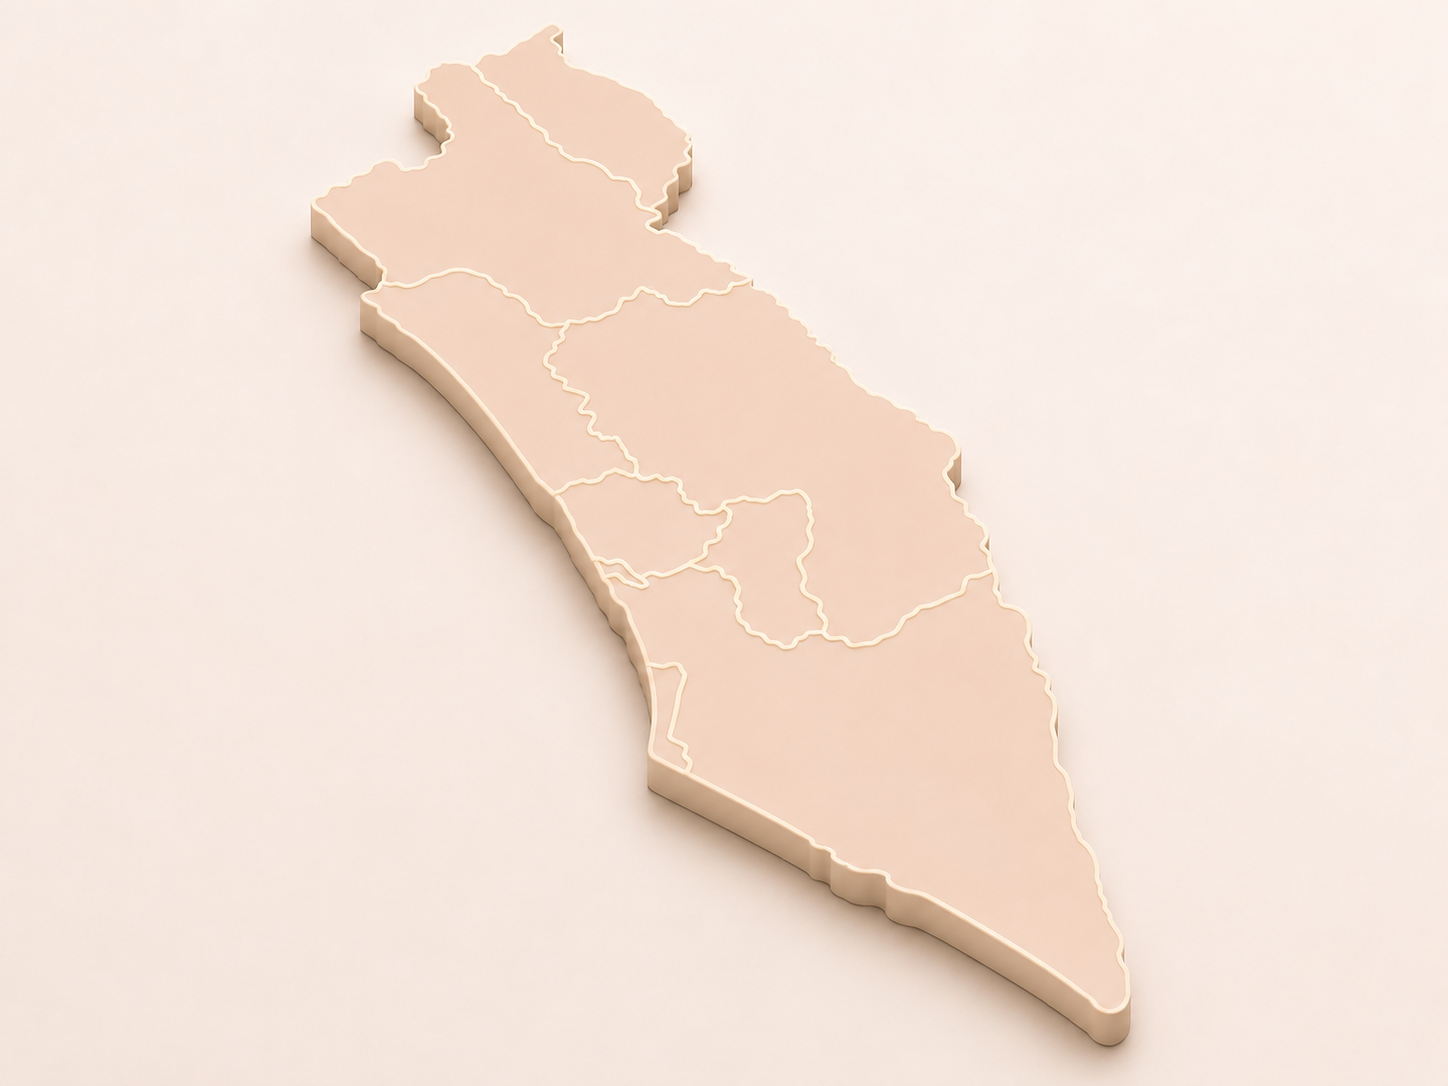
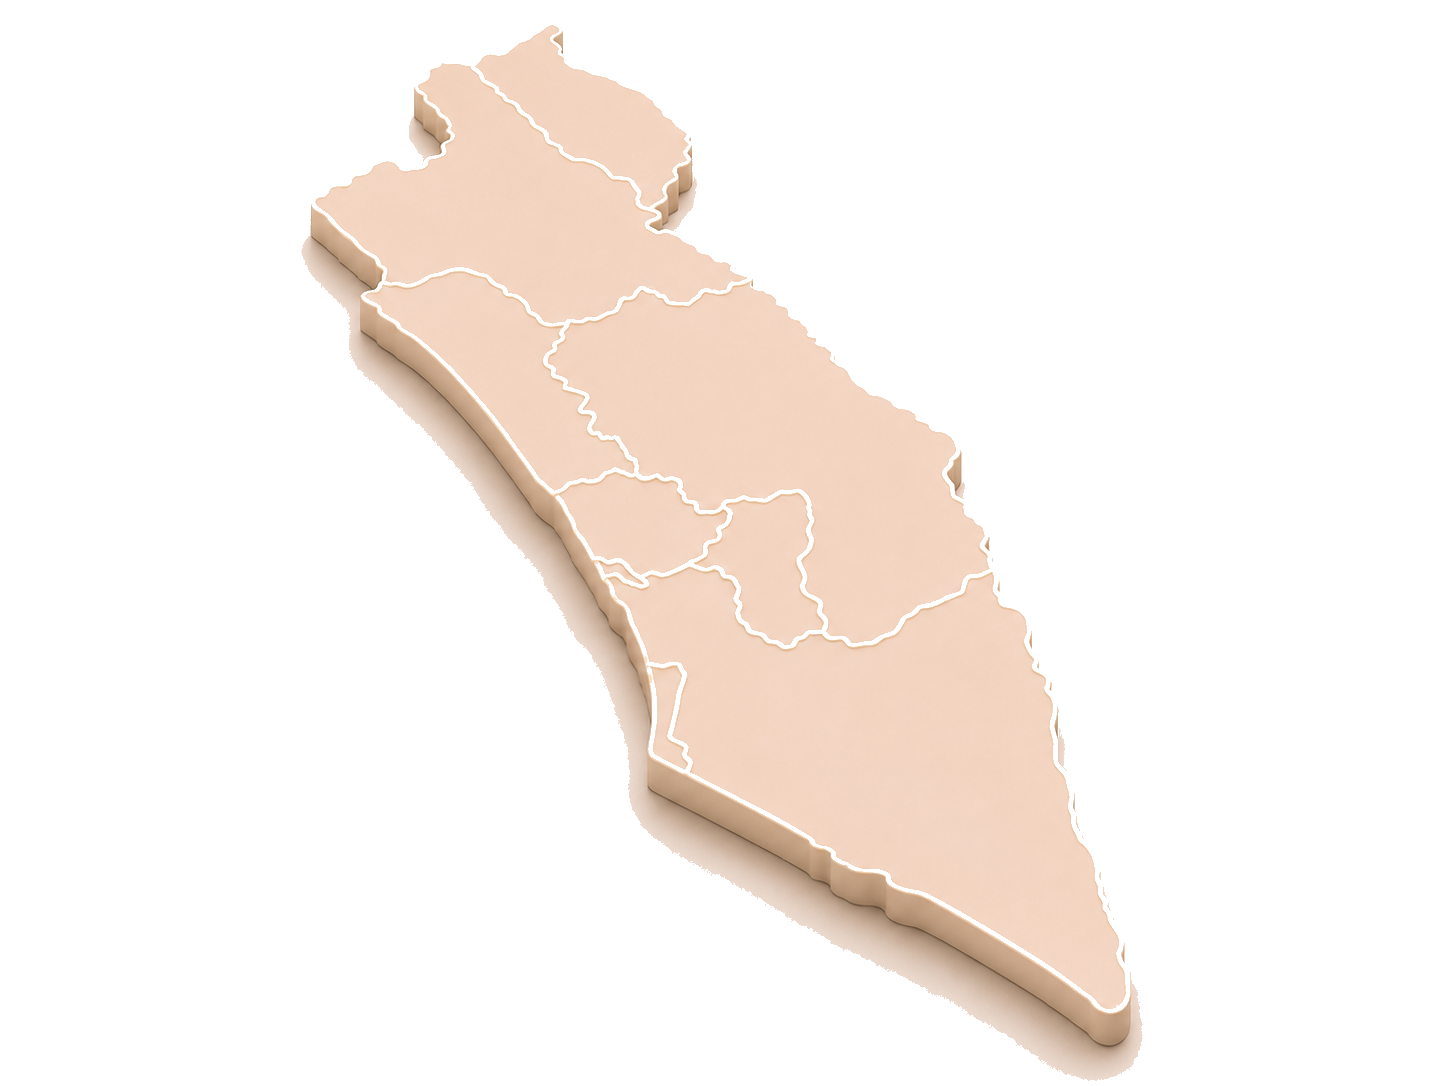
Update landing page

diff --git a/index.html b/index.html
@@ -142,7 +142,7 @@
 <section class="section solution" id="solution">
   <div class="container solution-inner">
     <div class="solution-image">
-      <img src="assets/solution-team.jpg" alt="צוות אסירון ורכב החברה מול מבנה מגורים">
+      <img src="assets/solution-briefing.png" alt="נציג אסירון מדריך עובדים בדירה מנוהלת ומאובזרת">
     </div>
     <div class="solution-content">
       <span class="section-eyebrow">Our Solution</span>
@@ -244,27 +244,32 @@
     <p class="apartments-text">כל דירה עוברת אצלנו תהליך בדיקה קפדני לפני כניסת <span class="nowrap">עובדים – מהתאמת</span> המיקום והסביבה ועד תקינות התשתיות והבטיחות. הדירות מגיעות מרוהטות ומאובזרות במטבח שלם, מוצרי ניקיון וכל מה שנדרש למגורים נוחים מהיום הראשון, ומתוחזקות באופן שוטף כל עוד העובדים גרים בהן.</p>
     <p class="apartments-text">מעבר לדירות למגורים ארוכי טווח, אנחנו מציעים גם מלוניות ודירות מעבר לתקופות <span class="nowrap">קצרות – פתרון</span> דיור גמיש, מהיר וזמין לכל צורך.</p>
 
-    <!-- מקום ל-4 סרטונים. כשיהיו הסרטונים, החליפי כל .video-slot בקוד:
-         <div class="video-slot"><video src="assets/apartment-video-1.mp4" muted loop playsinline controls poster="..."></video></div> -->
-    <div class="video-grid">
-      <div class="video-slot">
-        <svg viewBox="0 0 24 24" fill="none" stroke="currentColor" stroke-width="1.6" stroke-linecap="round" stroke-linejoin="round"><rect x="3" y="5" width="18" height="14" rx="2"/><path d="M10 9l5 3-5 3z"/></svg>
-        <span>מקום לסרטון</span>
-      </div>
-      <div class="video-slot">
-        <svg viewBox="0 0 24 24" fill="none" stroke="currentColor" stroke-width="1.6" stroke-linecap="round" stroke-linejoin="round"><rect x="3" y="5" width="18" height="14" rx="2"/><path d="M10 9l5 3-5 3z"/></svg>
-        <span>מקום לסרטון</span>
-      </div>
-      <div class="video-slot">
-        <svg viewBox="0 0 24 24" fill="none" stroke="currentColor" stroke-width="1.6" stroke-linecap="round" stroke-linejoin="round"><rect x="3" y="5" width="18" height="14" rx="2"/><path d="M10 9l5 3-5 3z"/></svg>
-        <span>מקום לסרטון</span>
-      </div>
-      <div class="video-slot">
-        <svg viewBox="0 0 24 24" fill="none" stroke="currentColor" stroke-width="1.6" stroke-linecap="round" stroke-linejoin="round"><rect x="3" y="5" width="18" height="14" rx="2"/><path d="M10 9l5 3-5 3z"/></svg>
-        <span>מקום לסרטון</span>
-      </div>
+  </div>
+  <div class="marquee">
+    <div class="marquee-track gallery-track">
+      <div class="gallery-tile"><img src="assets/project-1.jpg" alt="פינת אוכל ומטבח בדירת עובדים"></div>
+      <div class="gallery-tile"><img src="assets/project-2.jpg" alt="חדר שינה בדירה מנוהלת"></div>
+      <div class="gallery-tile"><img src="assets/project-3.jpg" alt="חדר בדירת עובדים"></div>
+      <div class="gallery-tile"><img src="assets/project-4.jpg" alt="מטבח מאובזר בדירה"></div>
+      <div class="gallery-tile"><img src="assets/project-5.jpg" alt="עמדת בישול במטבח"></div>
+      <div class="gallery-tile"><img src="assets/project-6.jpg" alt="חדר רחצה בדירה מנוהלת"></div>
+      <div class="gallery-tile"><img src="assets/project-7.jpg" alt="חלל דירה"></div>
+      <div class="gallery-tile"><img src="assets/project-8.jpg" alt="תחזוקה והכנת מטבח"></div>
+      <div class="gallery-tile"><img src="assets/project-9.jpg" alt="מסירת מפתח לדירה"></div>
+      <div class="gallery-tile"><img src="assets/project-10.jpg" alt="דירה מוכנה למגורים"></div>
+      <div class="gallery-tile" aria-hidden="true"><img src="assets/project-1.jpg" alt=""></div>
+      <div class="gallery-tile" aria-hidden="true"><img src="assets/project-2.jpg" alt=""></div>
+      <div class="gallery-tile" aria-hidden="true"><img src="assets/project-3.jpg" alt=""></div>
+      <div class="gallery-tile" aria-hidden="true"><img src="assets/project-4.jpg" alt=""></div>
+      <div class="gallery-tile" aria-hidden="true"><img src="assets/project-5.jpg" alt=""></div>
+      <div class="gallery-tile" aria-hidden="true"><img src="assets/project-6.jpg" alt=""></div>
+      <div class="gallery-tile" aria-hidden="true"><img src="assets/project-7.jpg" alt=""></div>
+      <div class="gallery-tile" aria-hidden="true"><img src="assets/project-8.jpg" alt=""></div>
+      <div class="gallery-tile" aria-hidden="true"><img src="assets/project-9.jpg" alt=""></div>
+      <div class="gallery-tile" aria-hidden="true"><img src="assets/project-10.jpg" alt=""></div>
     </div>
-
+  </div>
+  <div class="container">
     <div class="apartments-cta">
       <a href="apartments.html" class="btn btn-primary btn-lg">לכל הדירות והפריסה בארץ</a>
     </div>

diff --git a/apartments.html b/apartments.html
@@ -72,29 +72,26 @@
     <div class="coverage-wrap">
       <img src="assets/israel-map.png" class="coverage-img" alt="מפת ישראל המציגה את פריסת הדירות של אסירון — מחיפה והקריות בצפון ועד אשקלון בדרום, בריכוז גבוה באזור המרכז">
     </div>
-  </div>
-  <div class="marquee">
-    <div class="marquee-track gallery-track">
-      <div class="gallery-tile"><img src="assets/project-1.jpg" alt="פינת אוכל ומטבח בדירת עובדים"></div>
-      <div class="gallery-tile"><img src="assets/project-2.jpg" alt="חדר שינה בדירה מנוהלת"></div>
-      <div class="gallery-tile"><img src="assets/project-3.jpg" alt="חדר בדירת עובדים"></div>
-      <div class="gallery-tile"><img src="assets/project-4.jpg" alt="מטבח מאובזר בדירה"></div>
-      <div class="gallery-tile"><img src="assets/project-5.jpg" alt="עמדת בישול במטבח"></div>
-      <div class="gallery-tile"><img src="assets/project-6.jpg" alt="חדר רחצה בדירה מנוהלת"></div>
-      <div class="gallery-tile"><img src="assets/project-7.jpg" alt="חלל דירה"></div>
-      <div class="gallery-tile"><img src="assets/project-8.jpg" alt="תחזוקה והכנת מטבח"></div>
-      <div class="gallery-tile"><img src="assets/project-9.jpg" alt="מסירת מפתח לדירה"></div>
-      <div class="gallery-tile"><img src="assets/project-10.jpg" alt="דירה מוכנה למגורים"></div>
-      <div class="gallery-tile" aria-hidden="true"><img src="assets/project-1.jpg" alt=""></div>
-      <div class="gallery-tile" aria-hidden="true"><img src="assets/project-2.jpg" alt=""></div>
-      <div class="gallery-tile" aria-hidden="true"><img src="assets/project-3.jpg" alt=""></div>
-      <div class="gallery-tile" aria-hidden="true"><img src="assets/project-4.jpg" alt=""></div>
-      <div class="gallery-tile" aria-hidden="true"><img src="assets/project-5.jpg" alt=""></div>
-      <div class="gallery-tile" aria-hidden="true"><img src="assets/project-6.jpg" alt=""></div>
-      <div class="gallery-tile" aria-hidden="true"><img src="assets/project-7.jpg" alt=""></div>
-      <div class="gallery-tile" aria-hidden="true"><img src="assets/project-8.jpg" alt=""></div>
-      <div class="gallery-tile" aria-hidden="true"><img src="assets/project-9.jpg" alt=""></div>
-      <div class="gallery-tile" aria-hidden="true"><img src="assets/project-10.jpg" alt=""></div>
+
+    <!-- מקום ל-4 סרטונים. כשיהיו הסרטונים, החליפי כל .video-slot בקוד:
+         <div class="video-slot"><video src="assets/apartment-video-1.mp4" muted loop playsinline controls poster="..."></video></div> -->
+    <div class="video-grid">
+      <div class="video-slot">
+        <svg viewBox="0 0 24 24" fill="none" stroke="currentColor" stroke-width="1.6" stroke-linecap="round" stroke-linejoin="round"><rect x="3" y="5" width="18" height="14" rx="2"/><path d="M10 9l5 3-5 3z"/></svg>
+        <span>מקום לסרטון</span>
+      </div>
+      <div class="video-slot">
+        <svg viewBox="0 0 24 24" fill="none" stroke="currentColor" stroke-width="1.6" stroke-linecap="round" stroke-linejoin="round"><rect x="3" y="5" width="18" height="14" rx="2"/><path d="M10 9l5 3-5 3z"/></svg>
+        <span>מקום לסרטון</span>
+      </div>
+      <div class="video-slot">
+        <svg viewBox="0 0 24 24" fill="none" stroke="currentColor" stroke-width="1.6" stroke-linecap="round" stroke-linejoin="round"><rect x="3" y="5" width="18" height="14" rx="2"/><path d="M10 9l5 3-5 3z"/></svg>
+        <span>מקום לסרטון</span>
+      </div>
+      <div class="video-slot">
+        <svg viewBox="0 0 24 24" fill="none" stroke="currentColor" stroke-width="1.6" stroke-linecap="round" stroke-linejoin="round"><rect x="3" y="5" width="18" height="14" rx="2"/><path d="M10 9l5 3-5 3z"/></svg>
+        <span>מקום לסרטון</span>
+      </div>
     </div>
   </div>
 </section>

diff --git a/styles.css b/styles.css
@@ -1065,8 +1065,7 @@ html.a11y-align body p, html.a11y-align body li { text-align: right !important; 
 .coverage-img {
   width: 100%;
   height: auto;
-  display: block;
-  border-radius: var(--radius);
+  display: block; /* transparent-background cutout — floats naturally on the page */
 }
 .map-land {
   fill: #e7e3db;